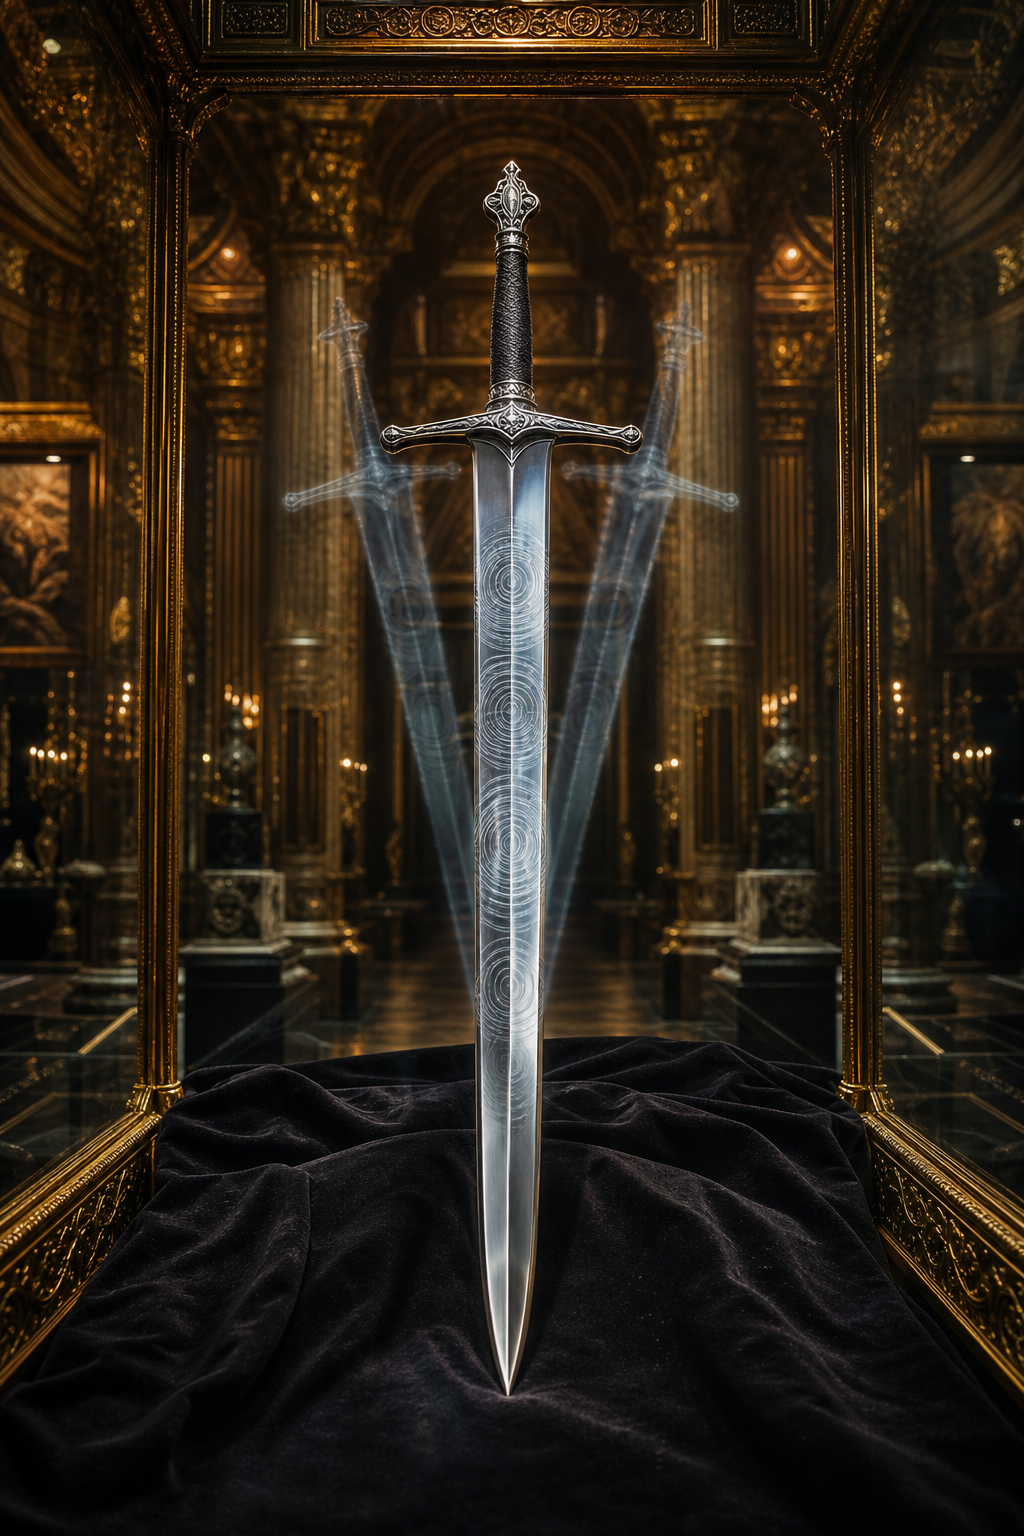
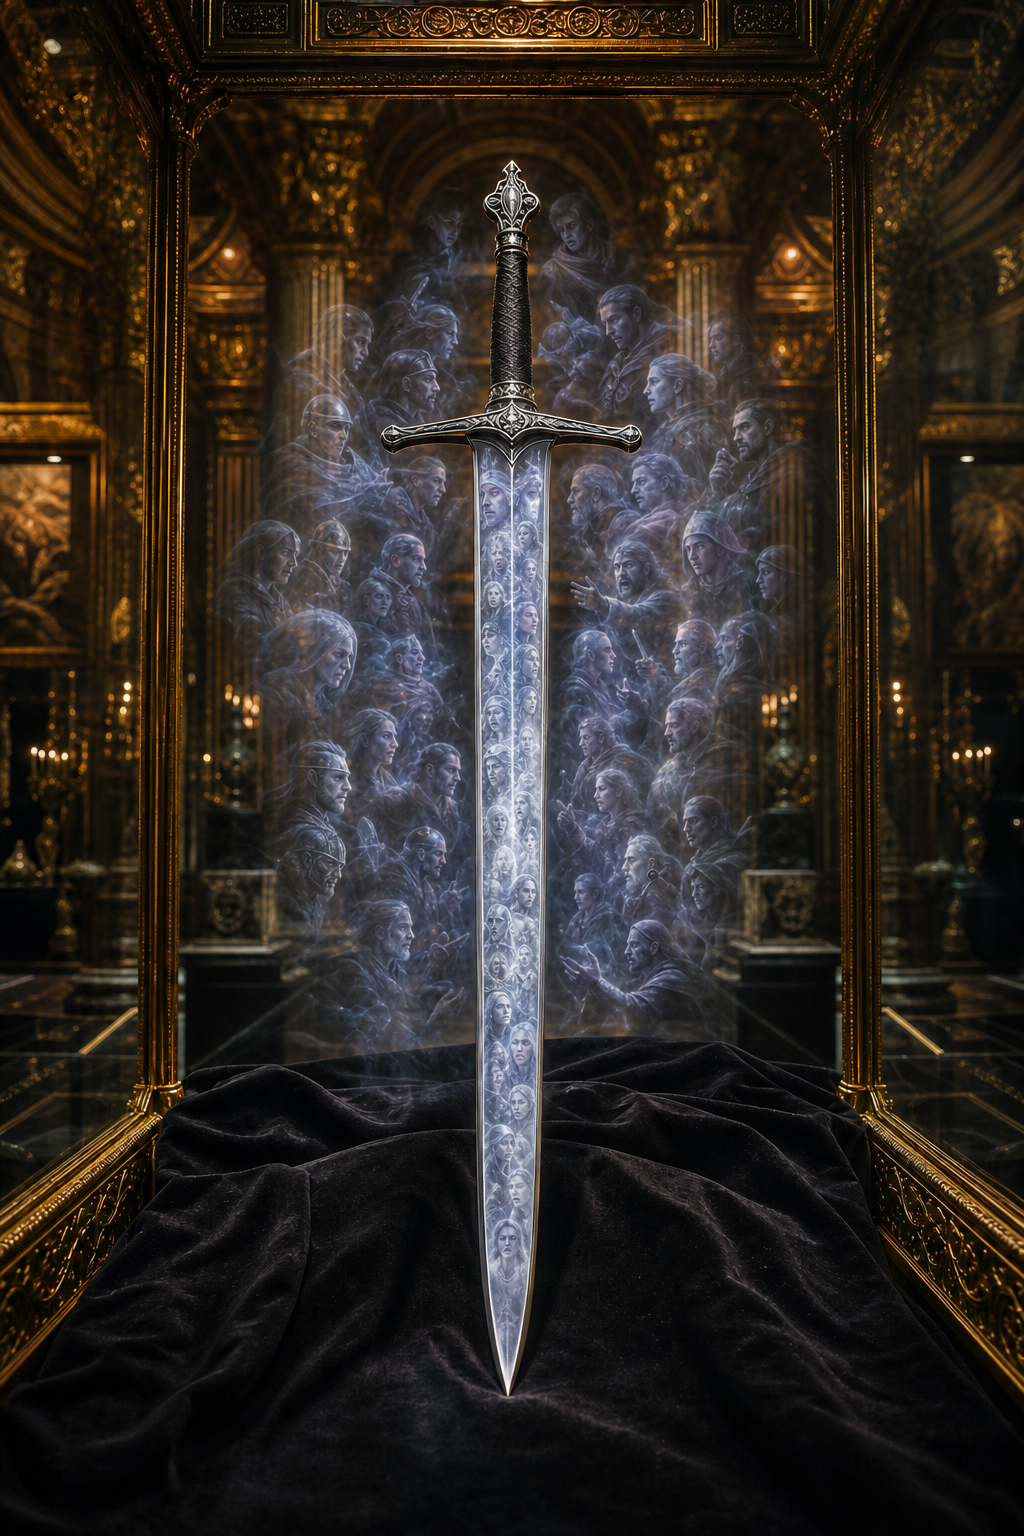
Add Nyssia and Matcha reference material

diff --git a/docs/matcha-frappuccino-ship-design.md b/docs/matcha-frappuccino-ship-design.md
@@ -1,0 +1,69 @@
+# Matcha Frappuccino — Canonical Ship Design
+
+![Four-view turnaround](assets/ships/matcha-frappuccino/matcha-frappuccino-ship-turnaround.png)
+
+This document records the canonical physical design of the *Matcha Frappuccino*. Its crew, officers, statistics, upgrades, and service history remain in the campaign records and wiki.
+
+## Design basis
+
+The *Matcha Frappuccino* is a three-masted galleon. Its long hull, pronounced beakhead, two visible gun decks, broad beam, heavy square rig, and high multi-level stern galleries use Queen Anne's Revenge as a silhouette and construction inspiration. It is not intended as a historical reconstruction.
+
+The Matcha's own identity controls all decoration:
+
+- deep black-green hull panels and sails;
+- matcha, olive, moss, cream, ivory, aged pewter, sea green, rope tan, and warm timber;
+- ceremonial cup, leaf, crossed oars, waves, botanical scrollwork, rope knots, and anchor motifs;
+- no Dawnrunner crimson, roses, thorns, wings, or fleur-de-lis.
+
+## Exterior
+
+| Port side | Starboard side |
+|---|---|
+| ![Port side](assets/ships/matcha-frappuccino/matcha-frappuccino-port-side.png) | ![Starboard side](assets/ships/matcha-frappuccino/matcha-frappuccino-starboard-side.png) |
+
+| Bow | Stern |
+|---|---|
+| ![Bow](assets/ships/matcha-frappuccino/matcha-frappuccino-front.png) | ![Stern](assets/ships/matcha-frappuccino/matcha-frappuccino-rear.png) |
+
+These views lock the hull proportions, mast spacing, cannon-port rhythm, beakhead, figurehead mounting, and stern-gallery window arrangement.
+
+## Figurehead
+
+![Figurehead reference sheet](assets/ships/matcha-frappuccino/matcha-frappuccino-figurehead-reference-sheet.png)
+
+The figurehead is a dignified adult feminine undine-like botanical sea spirit. Long carved hair becomes curling waves and tea leaves. Two hands hold one shallow ceremonial cup close to the chest. The lower form merges into symmetrical wave-and-leaf carving attached to the beakhead.
+
+Materials are dark weathered wood, aged pewter, restrained matcha-green enamel, and cream highlights.
+
+## Sail system and flag
+
+![Sail-system reference sheet](assets/ships/matcha-frappuccino/matcha-frappuccino-sails-reference-sheet.png)
+
+The heavy black-green sails use cream piping, matcha-green reinforced corners, and rope-tan reef lines. The main emblem is an aged-pewter cup with one leaf, crossed oars, and curling waves. Smaller sails use restrained tea-leaf scrollwork or a leaf-and-anchor mark.
+
+![Canonical flag](assets/ships/matcha-frappuccino/matcha-frappuccino-flag-canonical.png)
+
+The flag remains the exact authority for the ship's named ensign, palette, and full heraldic arrangement.
+
+## Rear captain's quarters
+
+![Rear captain's quarters](assets/ships/matcha-frappuccino/matcha-frappuccino-captains-quarters-reference-sheet.png)
+
+The quarters fit inside the curved rear galleries. They combine broad stern windows, a chart table, writing desk, weather instruments, secure artifact cabinet, sea chest, simple bunk, compact armor and weapon storage, secured herbs and vines, and modest accommodations for animals. The cabin is practical and seaworthy rather than palatial.
+
+## ComfyUI packs
+
+- `Ship_Matcha_Frappuccino`
+- `Ship_Part_Matcha_Figurehead`
+- `Ship_Interior_Matcha_Captains_Quarters`
+- `Ship_Sails_Matcha_Frappuccino`
+- `Heraldry_Matcha_Frappuccino_Flag`
+
+The packs are stored under:
+
+`D:\comfyui\ComfyUI-Easy-Install\ComfyUI\input\Canonical Reference Packs`
+
+The durable approved art masters are stored under:
+
+`C:\Users\coutu\Documents\Codex\Documents\Dawnrunner\Matcha Frappuccino\Ship Design`
+

diff --git a/docs/nyssia.md b/docs/nyssia.md
@@ -1,0 +1,39 @@
+# Nyssia
+
+![Zatera world map showing Nyssia in the far southwest](assets/locations/zatera-150-pa-world-map.jpg)
+
+Nyssia is the southwestern continent of Zatera. The supplied world map spells
+the name **Nysia**; project navigation uses **Nyssia** for the continental
+index while preserving the printed map label.
+
+## Geographic hierarchy
+
+1. **Zatera** — the campaign world.
+2. **Nyssia** — the southwestern continent.
+3. **Old Nysia** — a historical region within the continent.
+4. **Glistria** — a major fortified coastal city within Old Nysia.
+
+The historical regional map identifies Tradegulf, Glistria, Arverdon Palace,
+the Acis River corridor, and numerous surrounding settlements. Old Nysia is
+not a synonym for the entire continent.
+
+## Old Nysia
+
+![Map of Old Nysia](assets/locations/old-nysia-map.jpg)
+
+Old Nysia contains the best documented Nyssian campaign locations. The region
+is the setting for the Battle for Tradegulf, the collapse of the old guild and
+legal systems, and the resulting power vacuum and relief efforts.
+
+## Glistria
+
+See [Glistria](glistria.md) for the detailed city map, districts, landmarks,
+the Kiss from a Rose hostel, and Pete's portal-linked shop.
+
+## Current government
+
+Nyssia is a semi-constitutional monarchy ruled by Queen Lidda Beaumont from
+Arverdon Palace. The exact modern borders, capital status, provincial
+divisions, and relationship between Old Nysia and New Nysia remain
+incompletely recorded.
+

diff --git a/docs/events/grand-artifact-auction.md b/docs/events/grand-artifact-auction.md
@@ -26,7 +26,7 @@ Every named lot has a dedicated illustrated entry in the
 | [Shard of the Shield of Ajax](../artifacts/auction/shard-of-the-shield-of-ajax.md) | 200,000 gp | Further properties unknown |
 | [Tiara of Decay](../artifacts/auction/tiara-of-decay.md) | 1,000,000 gp | Further properties unknown |
 | [Fate's Sword — known half](../artifacts/auction/fates-sword.md) | 450,000 gp | One half of the former Scissors of the Fates |
-| [Echo Blade](../artifacts/auction/echo-blade.md) | 200,000 gp | Further properties unknown |
+| [Echo Blade](../artifacts/auction/echo-blade.md) | 200,000 gp | +5 sword; ignores Power Attack-style attack penalties; 30+ arguing soul-memory echoes impose −10 Perception |
 | [Halfhead's Halfblade](../artifacts/auction/halfheads-halfblade.md) | 250,000 gp | Name slightly uncertain |
 | [Fate's Sword — presumed-lost half](../artifacts/auction/fates-sword.md) | 1,500,000 gp | Unexpected recovery drove the price dramatically higher |
 | [Horn of Resnik](../artifacts/auction/horn-of-resnik.md) | 450,000 gp | Further properties unknown |

diff --git a/docs/artifacts/auction/echo-blade.md b/docs/artifacts/auction/echo-blade.md
@@ -2,7 +2,18 @@
 
 ![Echo Blade](../../assets/artifacts/auction/echo-blade.png)
 
-Sold for **200,000 gp**. The portrait is interpretive; weapon type, powers,
-history, buyer, and current owner remain unknown.
+Sold for **200,000 gp**.
+
+The Echo Blade is a **+5 sword** containing echoes of the souls and memories of
+more than thirty former wielders. Its current wielder ignores attack-roll
+penalties voluntarily accepted to gain additional power, including the penalty
+from **Power Attack**.
+
+The benefit comes with a persistent drawback. The many echoes do not always
+agree, and they may argue loudly or scorn the current wielder. Their
+interference imposes a **−10 penalty on the wielder's Perception checks**.
+
+Its exact weapon type, seller, buyer, and current owner remain unknown. The
+portrait visualizes preserved soul-memories rather than a sonic effect.
 
 [Catalog](index.md) · [Auction](../../events/grand-artifact-auction.md)
